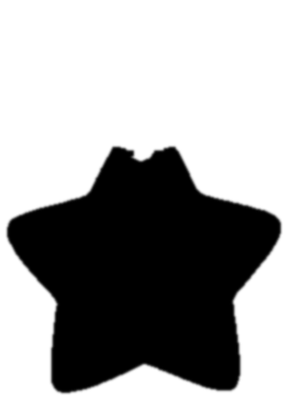
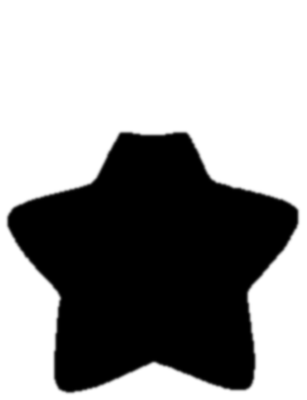
星の大瓶の絵を、新しいぷっくりした星の瓶に差しかえ
Claude-Session: https://claude.ai/code/session_01LsuWBkhUDp3d2Zrt24Lv8i

diff --git a/js/bigbottles.js b/js/bigbottles.js
@@ -9,7 +9,7 @@ const BIG_BOTTLES = [
   // ribbonLine：首に巻いたリボンの帯の下のふち（瓶の高さの%）。ribbonDrops：リボンをつけたときのチェーンの長さ（ribbonLine から。チェーンの輪1つ ≒ 2.8）
   { id: "round", name: "まんまるの大瓶", w: 281, h: 400, ribbonLine: 36.5, ribbonDrops: { short: 0.3, normal: 4.5, long: 10.5 }, cap: 12, waist: [30.6, 27.8], mouth: [22, 31], cork: true, top: 30, bottom: 98.3, neck: [50, 22], flowers: [[49.8,91.8],[24.9,46.8],[85.4,56.8],[16.0,75.5],[49.8,65.5],[78.3,79.2],[60.5,46.8]] },
   { id: "heart", name: "ハートの大瓶", w: 323, h: 400, cap: 16, waist: [24.4, 30.9], mouth: [24, 29], cork: true, top: 24, bottom: 98.1, neck: [50, 21], flowers: [[49.5,92.0],[88.2,42.0],[12.4,42.0],[51.1,58.2],[23.2,63.2],[77.4,62.0],[37.2,42.0]] },
-  { id: "star", name: "星の大瓶", w: 288, h: 400, charmScale: 0.78, fill: 0.97, cap: 33, waist: [41.4, 28.9], mouth: [41, 22], cork: true, top: 50, bottom: 98.2, neck: [50, 41], flowers: [[26.0,90.2],[79.9,62.7],[38.2,62.7],[71.2,89.0],[48.6,80.2],[59.0,66.5],[27.8,75.2]] },
+  { id: "star", name: "星の大瓶", w: 307, h: 400, charmScale: 0.78, fill: 0.95, cap: 26, waist: [38.5, 31], mouth: [33, 24], cork: true, top: 47, bottom: 98.1, neck: [50, 37], flowers: [[28.0,88.0],[78.0,60.0],[30.0,60.0],[72.0,88.0],[50.0,78.0],[60.0,66.0],[38.0,72.0]] },
   { id: "pear", name: "電球形の大瓶", w: 261, h: 400, charmScale: 0.95, cap: 11, waist: [24.4, 35.9], mouth: [23, 36], cork: true, top: 33, bottom: 98.5, neck: [50, 25], flowers: [[49.8,91.8],[28.7,49.2],[80.5,63.0],[13.4,75.5],[46.0,69.2],[78.5,84.2],[59.4,49.2]] },
   { id: "pumpkin", name: "かぼちゃ形の大瓶", w: 294, h: 400, charmScale: 0.86, cap: 24, waist: [33.6, 28.6], wrap: 30, mouth: [26, 30], top: 32, bottom: 98.2, neck: [50, 26], flowers: [[51.0,92.2],[23.8,48.5],[83.3,54.8],[18.7,77.2],[51.0,66.0],[79.9,78.5],[59.5,48.5]] },
   { id: "tall", name: "すらっとした大瓶", w: 131, h: 400, ribbonLine: 22.5, ribbonDrops: { short: 0.3, normal: 5.5, long: 14 }, cap: 12, waist: [21.2, 49.1], wrap: 20, mouth: [20, 56], cork: true, charmDrop: 55, top: 18, bottom: 98.4, neck: [50, 15], flowers: [[49.6,92.2],[26.7,37.2],[72.5,63.5],[26.7,74.8],[76.3,44.8],[22.9,56.0],[72.5,78.5]] },

diff --git a/js/app.js b/js/app.js
@@ -23,7 +23,7 @@ const KCAL_PER_FAT_G = 7.2;  // 体脂肪1gあたりのカロリー
 // 保存名はすべて「n-app-」で始める（同じサイト上のほかのアプリとまざらないように）
 const STORAGE_KEY = "n-app-data";
 const LEGACY_STORAGE_KEY = "n-undou-bin.v1"; // 前の保存名（自動で引っ越す）
-const APP_VERSION = "11/30-42"; // 更新するたびに変える（設定画面に表示）
+const APP_VERSION = "11/30-43"; // 更新するたびに変える（設定画面に表示）
 
 // ---------- データの読み書き ----------
 

diff --git a/sw.js b/sw.js
@@ -9,8 +9,8 @@
 // ★ プログラムを直したら CODE_VERSION を、今ある画像を描き直したら IMAGE_VERSION を、必ず1つ上げる。
 //   （新しい画像を足しただけなら IMAGE_VERSION はそのまま。足した分だけダウンロードされる）
 importScripts("js/bottles.js", "js/bigbottles.js", "js/series.js");
-const CODE_VERSION = 145;
-const IMAGE_VERSION = 7;
+const CODE_VERSION = 146;
+const IMAGE_VERSION = 8;
 const CODE_CACHE = `n-app-cache-v${CODE_VERSION}`;
 const IMAGE_CACHE = `n-app-images-v${IMAGE_VERSION}`;
 
